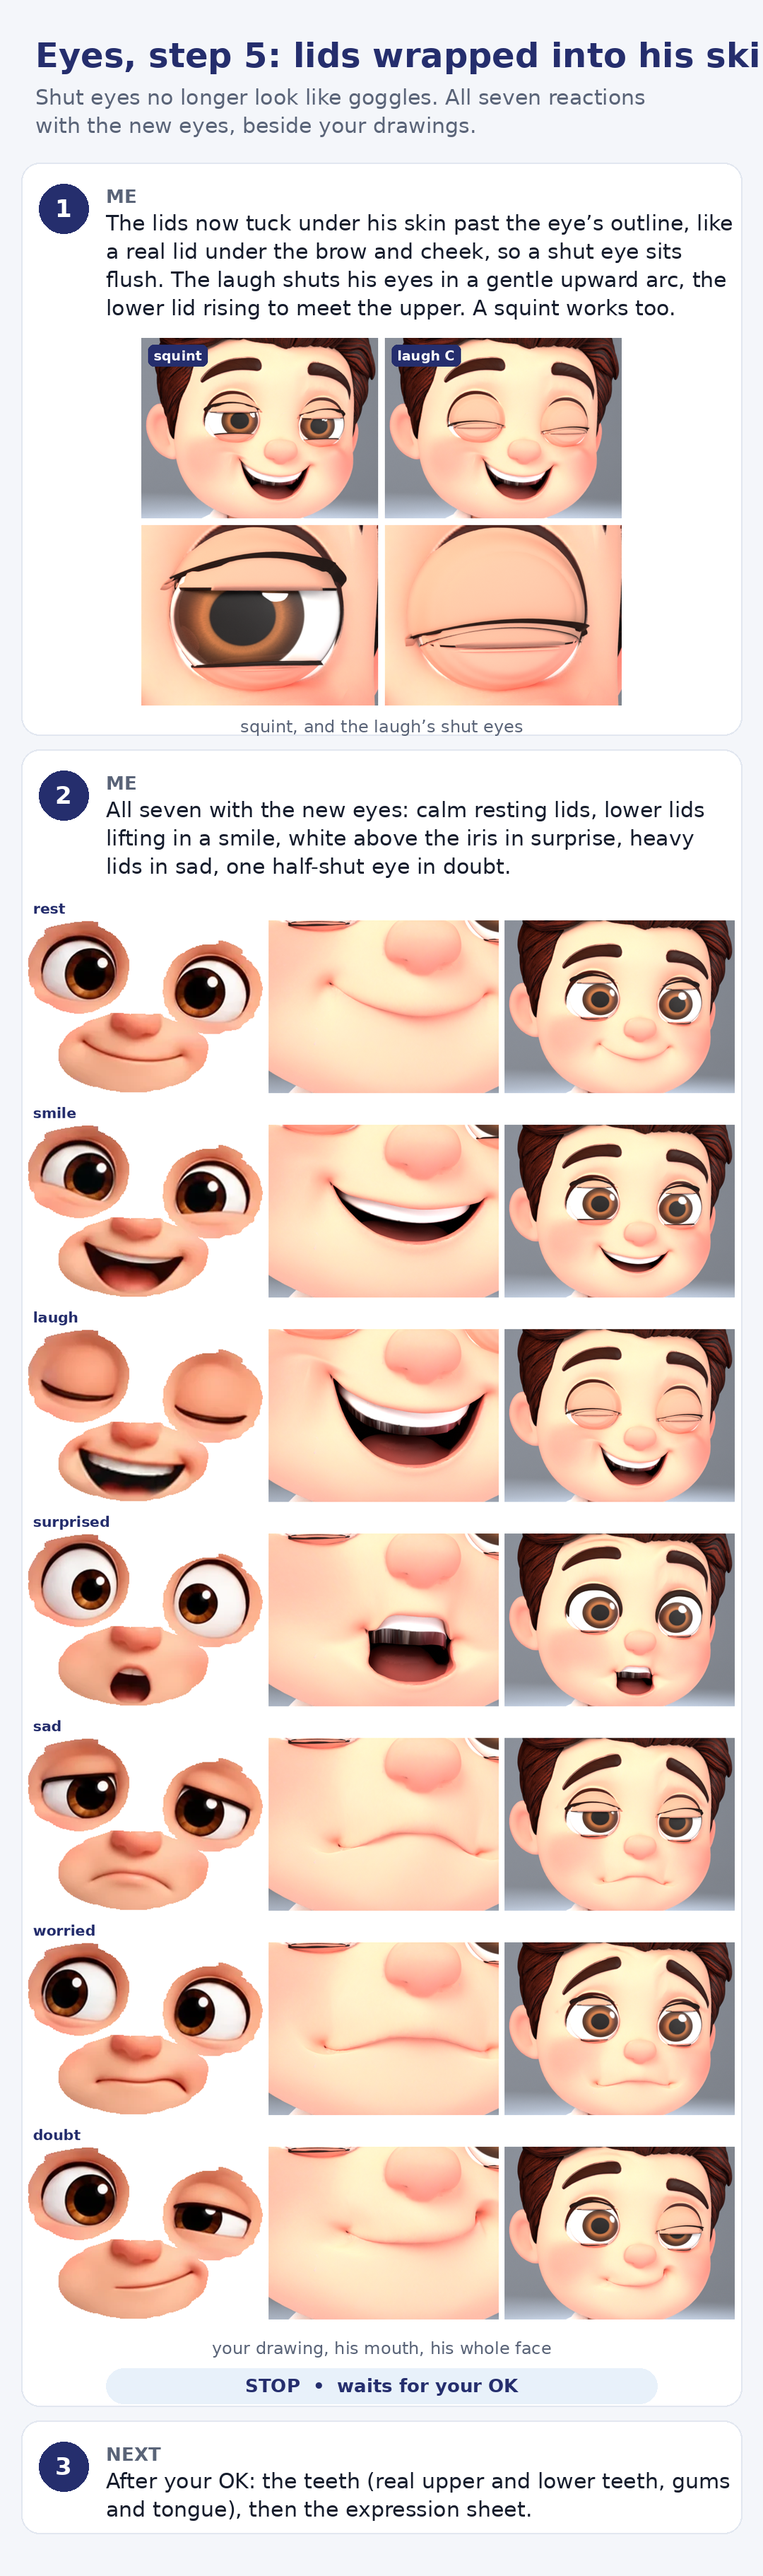
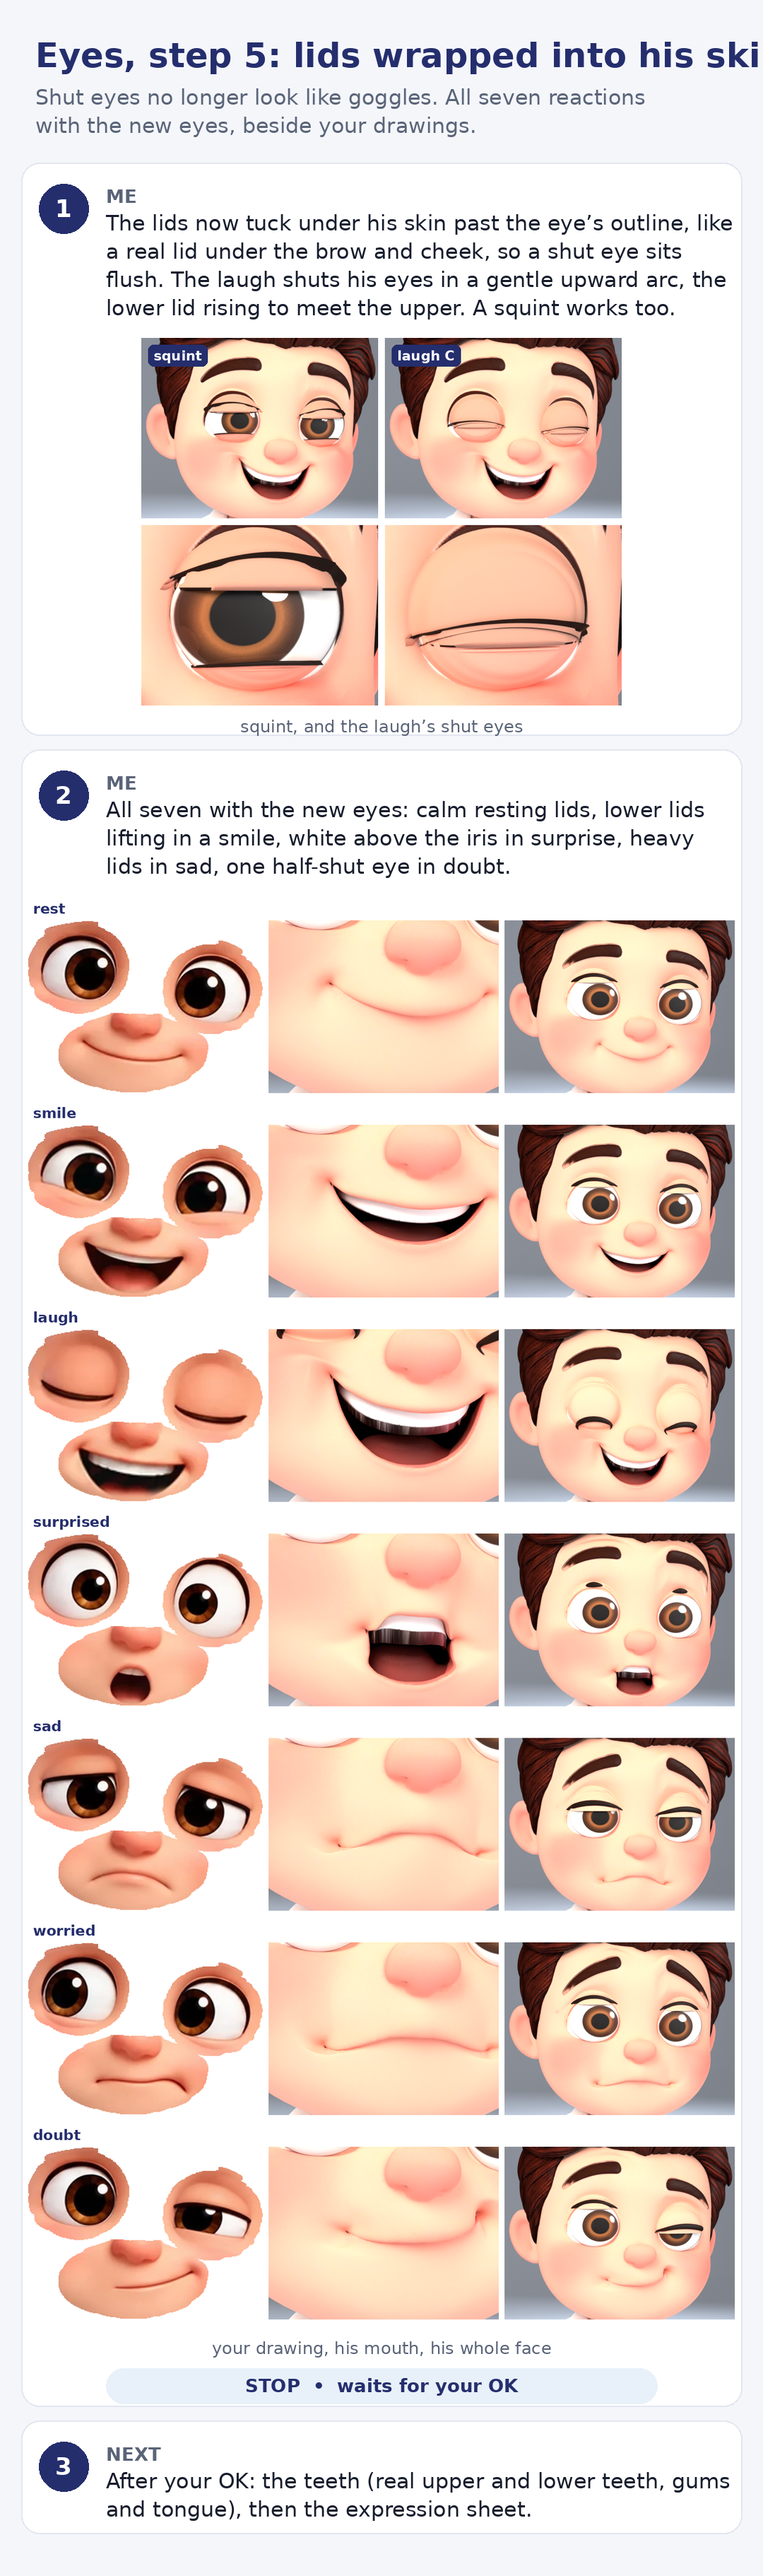
3D Dr. Smiley: eyes the animator's way, no lower lids, one lash line
Jose: no lower lids, the lashes looked awkward; study how animators do eyes.
The eyeliner painted into his texture is painted out (it stayed behind like
glasses as the lid came down), the separate liner and spiky lashes are gone,
one smooth tapered lash line rides the lid's edge through every blink, the
lid is his own skin colour, and the laugh is a shut lid with an upward arc.
out/plan-eyes7.png, waiting on Jose's OK. Docs only, no app change, so no
User Guide change.

Claude-Session: https://claude.ai/code/session_011askx983Tm1ZdoDUiZZ1Y5

diff --git a/docs/mockups/smiley-3d/tripo_eyes2.py b/docs/mockups/smiley-3d/tripo_eyes2.py
@@ -14,6 +14,7 @@ tripo_eyes.set_gaze).
 import os, sys, math
 import numpy as np
 import bpy
+from PIL import Image
 sys.path.insert(0, os.path.dirname(os.path.abspath(__file__)))
 import tripo_eyes as E
 import build
@@ -254,7 +255,11 @@ def wrap(vs, eye, rx, ry, rz, rows=None, segs=128, extra=0.):
     inside = rho < 1
     yb = -ry * np.sqrt(np.clip(1 - rho * rho, 0, 1))   # the ball's front surface (its y is out-negative)
     margin = .0008 + extra + (BULGE + .0008) * (1 - smooth((rho - .7) / .25))
-    y = np.where(inside, np.minimum(y, yb - margin), y)
+    # a soft minimum: where the shut lid lies almost on the clearance surface, a hard
+    # min switched between the two point by point and shaded as a grid (a cross on the lid)
+    a_, b_ = y, yb - margin
+    soft = (a_ + b_) / 2 - np.sqrt(((a_ - b_) / 2) ** 2 + .0012 ** 2)
+    y = np.where(inside, soft, y)
     dy = y - v[:, 1]
     if rows is not None:
         # the rim and lashes move as one piece with their column's lid edge: pushed out
@@ -268,11 +273,11 @@ def wrap(vs, eye, rx, ry, rz, rows=None, segs=128, extra=0.):
 
 def lid_faces(rows=48, segs=128):
     q = lambda r: [(r * segs + j, r * segs + (j + 1) % segs, (r + 1) * segs + (j + 1) % segs, (r + 1) * segs + j) for j in range(segs)]
-    shell = [f for r in range(rows) for f in q(r)]
+    shell = [f for r in range(rows - 2) for f in q(r)]
     rim = q(rows + 1)
     # the rim's front is the dark lash line: seen from the front, the lashes point at you
     # and read as a thin line on their own
-    lash = q(rows) + q(rows + 3)
+    lash = q(rows) + q(rows - 1) + q(rows - 2)   # a bold line on the lid's edge, moving with it; the rim's dark front only: the spiky lash sweep read awkward (Jose; animators keep boys' lashes to a line)
     return shell + rim, lash
 
 
@@ -361,6 +366,18 @@ def cheek_colour(eye):
     return [int(v) for v in np.median(T.sample(px, tuv[sel].mean(1)) * 255, 0)]
 
 
+def lid_skin_colour_above(eye):
+    """His skin between this eye and its brow, from the face texture (after the liner is painted out)."""
+    import tripo_lib as T
+    head = bpy.data.objects['Mesh_0']
+    img, px = T.texture(head)
+    cen, tuv = T.face_arrays(head)
+    t = eye.matrix_world.translation
+    rz = eye.data.materials[0].node_tree.nodes['RZ'].outputs[0].default_value
+    sel = (np.abs(cen[:, 0] - t.x) < .015) & (np.abs(cen[:, 2] - (t.z + rz * 1.5)) < .004) & (cen[:, 1] < -.09)
+    return [int(v) for v in np.median(T.sample(px, tuv[sel].mean(1)) * 255, 0)]
+
+
 def set_lower(side, amount):
     """The lower lid raised 0 (rest) .. 1 (high: a squint, the laugh's arc), through its stages."""
     ob = bpy.data.objects.get('LidLow.' + side)
@@ -393,21 +410,104 @@ def caruncle(mat, side):
     L.new(tint.outputs['Result'], N['Principled BSDF'].inputs['Base Color'])
 
 
+def paint_out_liner(eyes):
+    """His model's eyeliner is painted into the skin texture above each eye.
+    With the lid resting lower it showed as a second line, and stayed put as
+    the lid came down (glasses). Animators keep the lash line on the lid's
+    edge so it moves with it: the painted line goes, the lid's rim is the line.
+    Dark texels in a ring round each eye (not the brows) become his skin."""
+    import cv2, tripo_lib as T
+    head = bpy.data.objects['Mesh_0']
+    img, px = T.texture(head)
+    cen, tuv = T.face_arrays(head)
+    col = T.sample(px, tuv.mean(1)) * 255
+    h, w = px.shape[:2]
+    mask = np.zeros((h, w), np.uint8)
+    ring = np.zeros(len(cen), bool)
+    for eye in eyes:
+        t = eye.matrix_world.translation
+        N = eye.data.materials[0].node_tree.nodes
+        rx, rz = N['RX'].outputs[0].default_value, N['RZ'].outputs[0].default_value
+        rho = np.hypot((cen[:, 0] - t.x) / rx, (cen[:, 2] - t.z) / rz)
+        near = (rho > .8) & (rho < 1.75) & (cen[:, 1] < -.09)
+        dark = near & (col.sum(1) < 330)
+        ring |= near & (rho > 1.3) & (col.sum(1) > 500)
+        for f in np.nonzero(dark)[0]:
+            cv2.fillConvexPoly(mask, np.round(tuv[f] * [w, h]).astype(np.int32), 1)
+    skin = np.median(T.sample(px, tuv[ring].mean(1)), 0)
+    mask = cv2.dilate(mask, np.ones((9, 9), np.uint8))
+    soft = cv2.GaussianBlur(mask.astype(np.float32), (15, 15), 0)[..., None]
+    out = px.copy(); out[..., :3] = out[..., :3] * (1 - soft) + skin * soft
+    path = os.path.join(HERE, 'in', 'tex-noliner.png')
+    Image.fromarray((np.clip(out[::-1], 0, 1) * 255).astype(np.uint8), 'RGBA').save(path)
+    new = bpy.data.images.load(path, check_existing=False)
+    for n in head.data.materials[0].node_tree.nodes:
+        if n.type == 'TEX_IMAGE' and n.image == img:
+            n.image = new
+    print('liner painted out', int(mask.sum()), 'texels')
+
+
+LINE_N, LINE_SG = 72, 8
+
+
+def line_verts(edge_pts, eye, side):
+    """The lash line: one smooth tube riding the lid's edge, bold over the eye and
+    tapering to nothing at both corners, thickest toward the outer corner (as
+    animated films draw a boy's lash line: a bold stroke, no separate lashes)."""
+    M = len(edge_pts)                      # the edge row, one point per azimuth step (front = index 0)
+    out_x = 1 if side == 'L' else -1
+    idx = [(j % M) for j in range(-M // 4 + 3, M // 4 - 2)]
+    pts = np.array([edge_pts[i] for i in idx])
+    # resample evenly along its length
+    seg = np.r_[0, np.cumsum(np.linalg.norm(np.diff(pts, axis=0), axis=1))]
+    t = np.linspace(0, seg[-1], LINE_N)
+    P = np.stack([np.interp(t, seg, pts[:, k]) for k in range(3)], 1)
+    P[:, 1] -= .0007                        # just in front of the lid's skin
+    vs = []
+    for k in range(LINE_N):
+        u = k / (LINE_N - 1)
+        x = P[k, 0] * out_x                 # outer corner is +x for his left eye
+        bias = .75 + .5 * (x - P[:, 0].min() * out_x if out_x > 0 else 0) * 0
+        r = (.0034 * math.sin(math.pi * u) ** .55 + .0002) * (1 + .35 * (u if out_x * (P[-1, 0] - P[0, 0]) > 0 else 1 - u))
+        tan = P[min(k + 1, LINE_N - 1)] - P[max(k - 1, 0)]; tan /= np.linalg.norm(tan)
+        a = np.array([0, -1., 0]); a -= tan * (a @ tan); a /= np.linalg.norm(a)
+        b = np.cross(tan, a)
+        for j in range(LINE_SG):
+            ang = 2 * math.pi * j / LINE_SG
+            vs.append(tuple(P[k] + (a * math.cos(ang) * .55 + b * math.sin(ang)) * r))   # flat-ish: wider up/down than deep
+    return vs
+
+
+def line_faces(base):
+    return [(base + k * LINE_SG + j, base + k * LINE_SG + (j + 1) % LINE_SG,
+             base + (k + 1) * LINE_SG + (j + 1) % LINE_SG, base + (k + 1) * LINE_SG + j)
+            for k in range(LINE_N - 1) for j in range(LINE_SG)]
+
+
 def rebuild_lid(eye, side):
-    """The lid object kept (its rig, place and material), its mesh replaced; the
-    blink stages B1..B8 rebuilt to match (tripo_eyes.set_blink drives them)."""
+    """The lid object kept (its rig, place and material), its mesh replaced: a
+    skin shell that ends at its edge, and a lash line riding that edge. Blink
+    stages B1..B8 (tripo_eyes.set_blink) and Happy rebuilt to match."""
     lid = bpy.data.objects['Lid.' + side]
     N = eye.data.materials[0].node_tree.nodes
     rx, rz = N['RX'].outputs[0].default_value, N['RZ'].outputs[0].default_value
     ry = max(abs(v.co.y) for v in eye.data.vertices)
+    rows, segs = 48, 128
     # the arch holds until the lid is nearly shut (straight between, half closed was flat again)
     stages = [(E.OPEN + (E.SHUT - E.OPEN) * k / E.STAGES, ARCH_OPEN + (ARCH_SHUT - ARCH_OPEN) * (k / E.STAGES) ** 2.5) for k in range(E.STAGES + 1)]
-    skin, lash = lid_faces()
+    def stage(edge, arch, line_at=None):
+        v = wrap(lid_stage_verts(rx, ry, rz, edge, arch, side, grow=0), eye, rx, ry, rz, rows=rows, extra=.0008)
+        shell = v[:(rows + 1) * segs]          # the skin only: the rolled rim poked through his skin at the corners
+        path = shell[rows * segs:]
+        if line_at:                            # a crease drawn on the shut lid instead of on its edge
+            w = wrap(lid_stage_verts(rx, ry, rz, *line_at, side, grow=0), eye, rx, ry, rz, rows=rows, extra=.0008)
+            path = w[rows * segs:(rows + 1) * segs]
+        return shell + line_verts(path, eye, side)
+    q = lambda r: [(r * segs + j, r * segs + (j + 1) % segs, (r + 1) * segs + (j + 1) % segs, (r + 1) * segs + j) for j in range(segs)]
+    skin = [f for r in range(rows) for f in q(r)]
+    line = line_faces((rows + 1) * segs)
     me = bpy.data.meshes.new('Lid.' + side)
-    # open, the lid is tucked above the eye behind his face and the liner draws the line;
-    # its lashes grow in as it comes down (open, they poked out over the eye as tabs)
-    grow = lambda k: min(1., k / 2)
-    me.from_pydata(wrap(lid_stage_verts(rx, ry, rz, *stages[0], side, grow=grow(0)), eye, rx, ry, rz, rows=48, extra=.0008), [], skin + lash)
+    me.from_pydata(stage(*stages[0]), [], skin + line)
     me.shade_smooth()
     me.materials.append(bpy.data.materials['Lid'])
     lm = bpy.data.materials.get('Lash') or bpy.data.materials.new('Lash')
@@ -416,19 +516,27 @@ def rebuild_lid(eye, side):
     lb.inputs['Base Color'].default_value = build.srgb(30, 16, 10); lb.inputs['Roughness'].default_value = .65
     lb.inputs['Specular IOR Level'].default_value = .15
     me.materials.append(lm)
-    mi = [0] * len(skin) + [1] * len(lash)
-    me.polygons.foreach_set('material_index', mi)
+    me.polygons.foreach_set('material_index', [0] * len(skin) + [1] * len(line))
     old = lid.data
     lid.data = me
     bpy.data.meshes.remove(old)
     lid.vertex_groups.clear()
-    vg = lid.vertex_groups.new(name='head'); vg.add(list(range(len(me.vertices))), 1.0, 'REPLACE')
+    lid.vertex_groups.new(name='head').add(list(range(len(me.vertices))), 1.0, 'REPLACE')
     lid.shape_key_add(name='Basis', from_mix=False)
     for k in range(1, E.STAGES + 1):
         kb = lid.shape_key_add(name=f'B{k}', from_mix=False)
-        kb.data.foreach_set('co', np.array(wrap(lid_stage_verts(rx, ry, rz, *stages[k], side, grow=grow(k)), eye, rx, ry, rz, rows=48, extra=.0008)).ravel())
+        kb.data.foreach_set('co', np.array(stage(*stages[k])).ravel())
         kb.value = 0
-    glue_liner(eye, side, rx, rz)
+    # happy shut eyes: the lid closed in an upward curve, as animators draw a laugh (with the
+    # cheeks pushed up); a blink closes in a soft sag instead
+    kb = lid.shape_key_add(name='Happy', from_mix=False)
+    # the lid fully shut, the line an upward arc across it (a closed lid with a
+    # curved line, as a happy shut eye is drawn: no lower lid needed)
+    kb.data.foreach_set('co', np.array(stage(E.SHUT, 0, line_at=(-60, 34))).ravel())
+    kb.value = 0
+    ln = bpy.data.objects.get('Liner.' + side)
+    if ln:                      # the lid's own edge carries the line now
+        bpy.data.objects.remove(ln)
 
 
 def glue_liner(eye, side, rx, rz):
@@ -476,13 +584,19 @@ if __name__ == '__main__':
     if not os.path.exists(before):
         shutil.copy(src, before)
     bpy.ops.wm.open_mainfile(filepath=before)        # always from the eyes as they were
+    paint_out_liner([bpy.data.objects['Eye.L'], bpy.data.objects['Eye.R']])
+    # the lid in his skin's own colour right above the eye (a shade darker read as a disc
+    # round each eye); the new lid has no 'edge' attribute, so the ramp's first stop is it
+    c = lid_skin_colour_above(bpy.data.objects['Eye.L'])
+    r = bpy.data.materials['Lid'].node_tree.nodes['Color Ramp'].color_ramp
+    r.elements[0].color = r.elements[1].color = build.srgb(*c)
     for s in ('L', 'R'):
         eye = bpy.data.objects['Eye.' + s]
         iris_detail(eye.data.materials[0])
         add_cornea(eye)
         bpy.data.objects['Glint.' + s].hide_render = True      # the dome's real shine replaces the painted one
         rebuild_lid(eye, s)
-        build_lower_lid(eye, s)
+        # no lower lids (Jose, 2026-10-22: "I don't want him to have lower eye lids")
         caruncle(eye.data.materials[0], s)
     bpy.ops.wm.save_as_mainfile(filepath=src)
     print('done')

diff --git a/docs/mockups/smiley-3d/tripo_eyesboard.py b/docs/mockups/smiley-3d/tripo_eyesboard.py
@@ -60,3 +60,18 @@ board('Eyes, step 5: lids wrapped into his skin', ['Shut eyes no longer look lik
      'surprise, heavy lids in sad, one half-shut eye in doubt.', [fit(sheet, 1000, 2200)], 'your drawing, his mouth, his whole face', True),
     ('3', 'NEXT', 'After your OK: the teeth (real upper and lower teeth, gums and tongue), then the expression sheet.', [], '', False),
 ], 'plan-eyes6.png')
+
+
+e7 = Image.open(O('plan/eyes7.png'))
+sheet = Image.open(O('plan/mouths.png'))
+board('Eyes, the animator\u2019s way', ['No lower lids, no spiky lashes. What animators do instead.'], [
+    ('1', 'ME', 'What animation teachers say (Animation Mentor, AnimSchool, Bloop Animation): the top lid does the work and '
+     'moves with the eye; a boy\u2019s lashes are one bold line, not separate hairs; the line lives on the lid\u2019s edge '
+     'so it travels with every blink; happy shut eyes are a closed lid with an upward-curved line.', [], '', False),
+    ('2', 'ME', 'Done that way: the eyeliner painted into his old texture is gone (it stayed behind like glasses when the lid '
+     'came down); one smooth tapered lash line rides the lid\u2019s edge; the lid is his own skin colour; the laugh is a shut '
+     'lid with an upward arc.', [fit(e7, 1000, 380)], 'rest, half blink, sad, laugh', False),
+    ('3', 'ME', 'All seven reactions with these eyes.', [fit(sheet, 1000, 2200)], 'your drawing, his mouth, his whole face', True),
+    ('4', 'NEXT', 'Known: a shut eye still bulges a little (the eyeball stands out of his face), and the arc\u2019s ends dip as '
+     'they tuck under the skin. After your OK: the teeth.', [], '', False),
+], 'plan-eyes7.png')

diff --git a/docs/mockups/smiley-3d/tripo_face.py b/docs/mockups/smiley-3d/tripo_face.py
@@ -63,7 +63,7 @@ def add_key(ob, name, co):
     return kb
 
 
-def set_face(ob=None, brow=None, cheek=(0, 0), close=0, mouth=None, lids=True, lid=None, lower=(0, 0)):
+def set_face(ob=None, brow=None, cheek=(0, 0), close=0, mouth=None, lids=True, lid=None, lower=(0, 0), happy=0):
     """brow: per side (his right, his left) a (lift, tilt) in the app's units
     (DR_BROWS: lift up positive, tilt positive = inner end up); cheek: per side
     0..1; close: 0 (his sculpted smile) .. 1 (closed); mouth: {shape: 0..2} (past
@@ -95,7 +95,10 @@ def set_face(ob=None, brow=None, cheek=(0, 0), close=0, mouth=None, lids=True, l
     if lids:
         from tripo_eyes import set_blink
         for i, s in enumerate((R, L)):
-            set_blink(bpy.data.objects['Lid.' + s], lid[i] if lid else REST_LID + lid_down[i])
+            lo = bpy.data.objects['Lid.' + s]
+            set_blink(lo, (1 - happy) * (lid[i] if lid else REST_LID + lid_down[i]))
+            if 'Happy' in lo.data.shape_keys.key_blocks:      # happy shut eyes (tripo_eyes2.py)
+                lo.data.shape_keys.key_blocks['Happy'].value = happy
             if 'Cornea.' + s in bpy.data.objects:      # the dome's real shine replaces the painted one (tripo_eyes2.py)
                 bpy.data.objects['Glint.' + s].hide_render = True
             if 'LidLow.' + s in bpy.data.objects:

diff --git a/docs/mockups/smiley-3d/tripo_mouths.py b/docs/mockups/smiley-3d/tripo_mouths.py
@@ -23,11 +23,11 @@ TMP = os.path.join(HERE, 'in', 'faceplan')
 # his left brow, your right, goes a fifth further: DR_BROW_SIDE)
 MOUTHS = {
     'rest':      dict(close=1),
-    'smile':     dict(close=0, cheek=(1, 1), brow=((2, 0), (2.4, 0)), lower=(.3, .3)),   # a smile lifts the lower lids a little
+    'smile':     dict(close=0, cheek=(1, 1), brow=((2, 0), (2.4, 0))),
     # pushed toward the size of his drawings (Jose: "push them further"), the
     # muscles past their natural strength the way a cartoon exaggerates
     'laugh':     dict(close=0, mouth={'JawOpen': 1.2, 'CornerUp.L': 1, 'CornerUp.R': 1}, cheek=(1.6, 1.6),
-                      brow=((2.8, 0), (3.4, 0)), lid=(.64, .64), lower=(1, 1)),   # eyes shut in a gentle arc, the lower lid up to meet the upper
+                      brow=((2.8, 0), (3.4, 0)), happy=1),   # eyes shut in an upward curve, the cheeks pushed up
     # after the muscles (tripo_muscles.py, Jose 2026-10-22: "how a normal person makes
     # mouth reactions"): surprise is the jaw dropping with the lips let go (AU 26), not a
     # pucker; sadness pulls the corners down (15) and the chin up into a pout (17);

diff --git a/docs/handoff.md b/docs/handoff.md
@@ -144,6 +144,18 @@ worried (flat, not a frown).
    .8 mm further out so it closes over the lower). Laugh: `lid .64, lower 1`
    (both edges arch up and meet); smile `lower .3`. Shown
    `out/plan-eyes6.png`, waiting. Next: the teeth (plan in plan-alive).
+   Jose then: no lower lids, the lashes "awkward and unnatural", "study
+   animators". Now (`tripo_eyes2.py`): no lower lid (`build_lower_lid` not
+   called), the painted eyeliner in his texture painted out
+   (`paint_out_liner`, `in/tex-noliner.png`: it stayed behind like glasses
+   as the lid lowered), the Liner objects removed, the lid a skin shell
+   ending at its edge plus one tapered lash-line tube riding it
+   (`line_verts`, part of every blink key), lid in his skin colour
+   (`lid_skin_colour_above`), happy shut eyes = shape key `Happy`
+   (`set_face(happy=1)`): lid shut, line an upward arc across it. `wrap`
+   uses a soft minimum near the ball (a hard min drew a grid cross).
+   Shown `out/plan-eyes7.png`, waiting. Known: shut eyes bulge a little,
+   arc ends dip.
 2. Then the expression sheet (brows + eyes + mouth + cheeks), six poses,
    a 360-degree turn: stop for his OK.
 3. Then the animation (R2), as a visual plan first.
